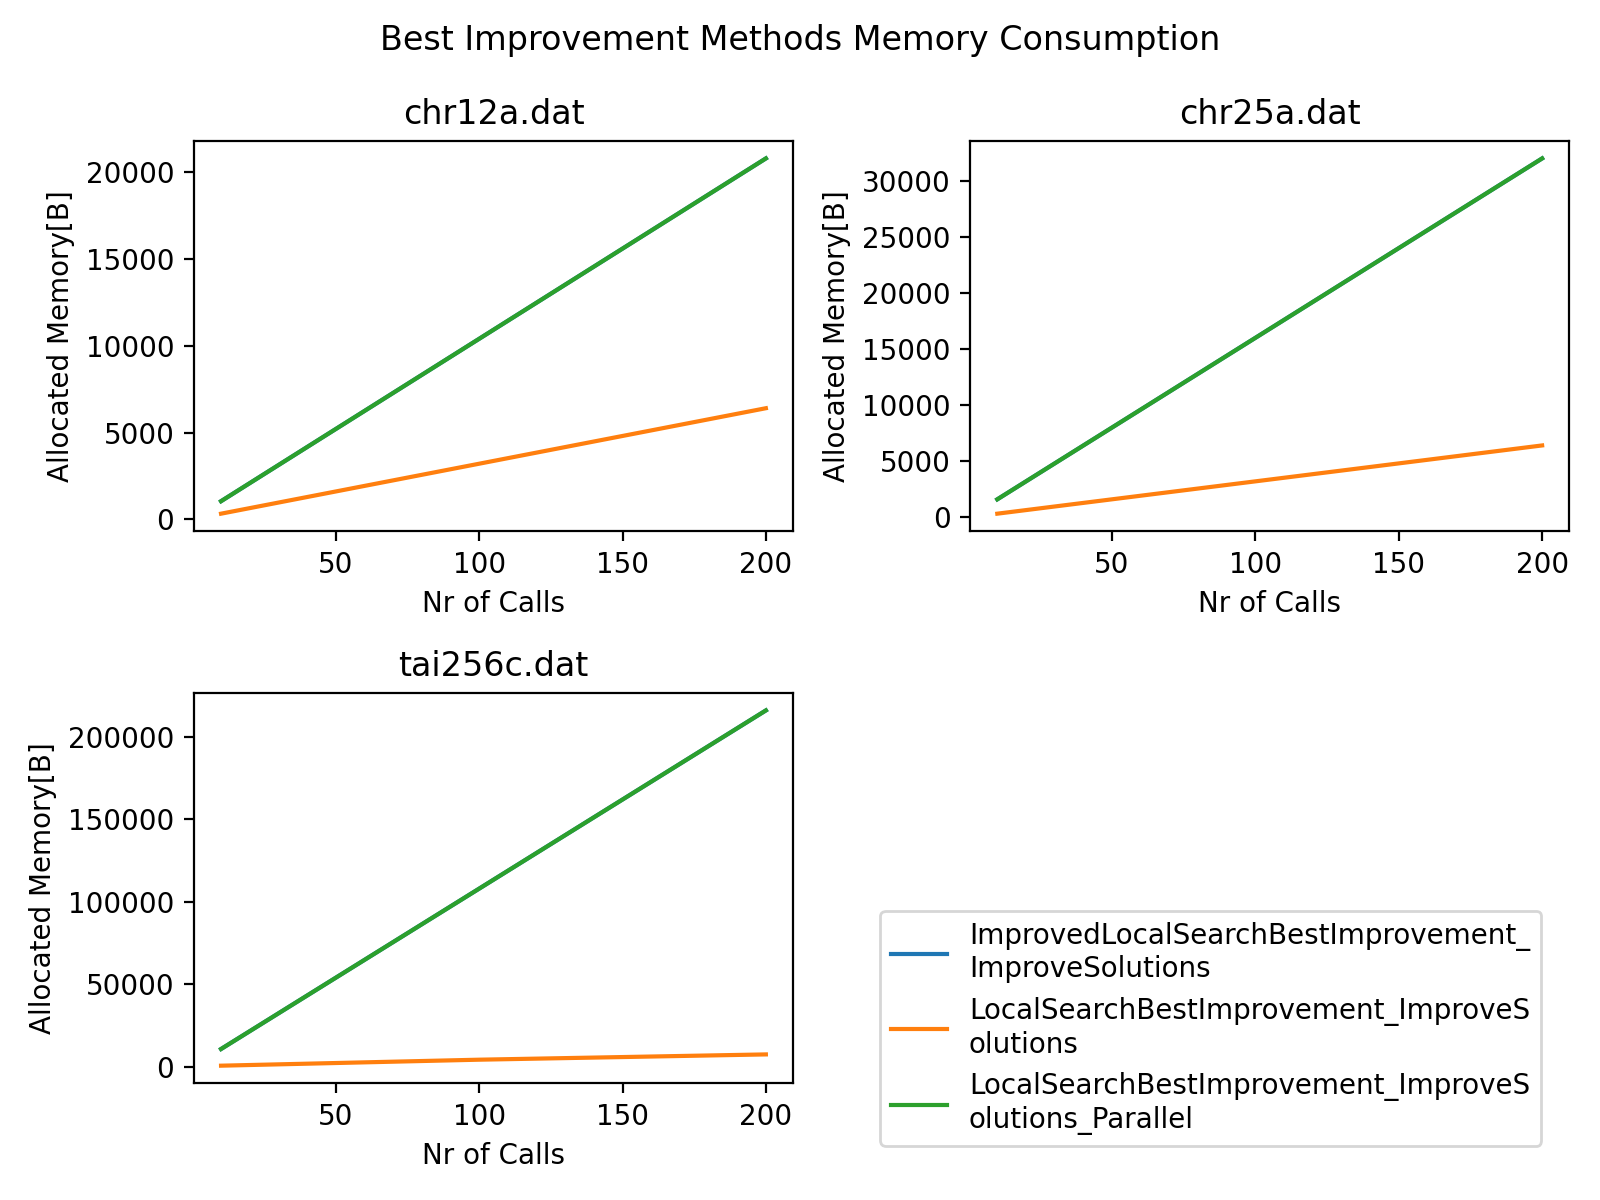
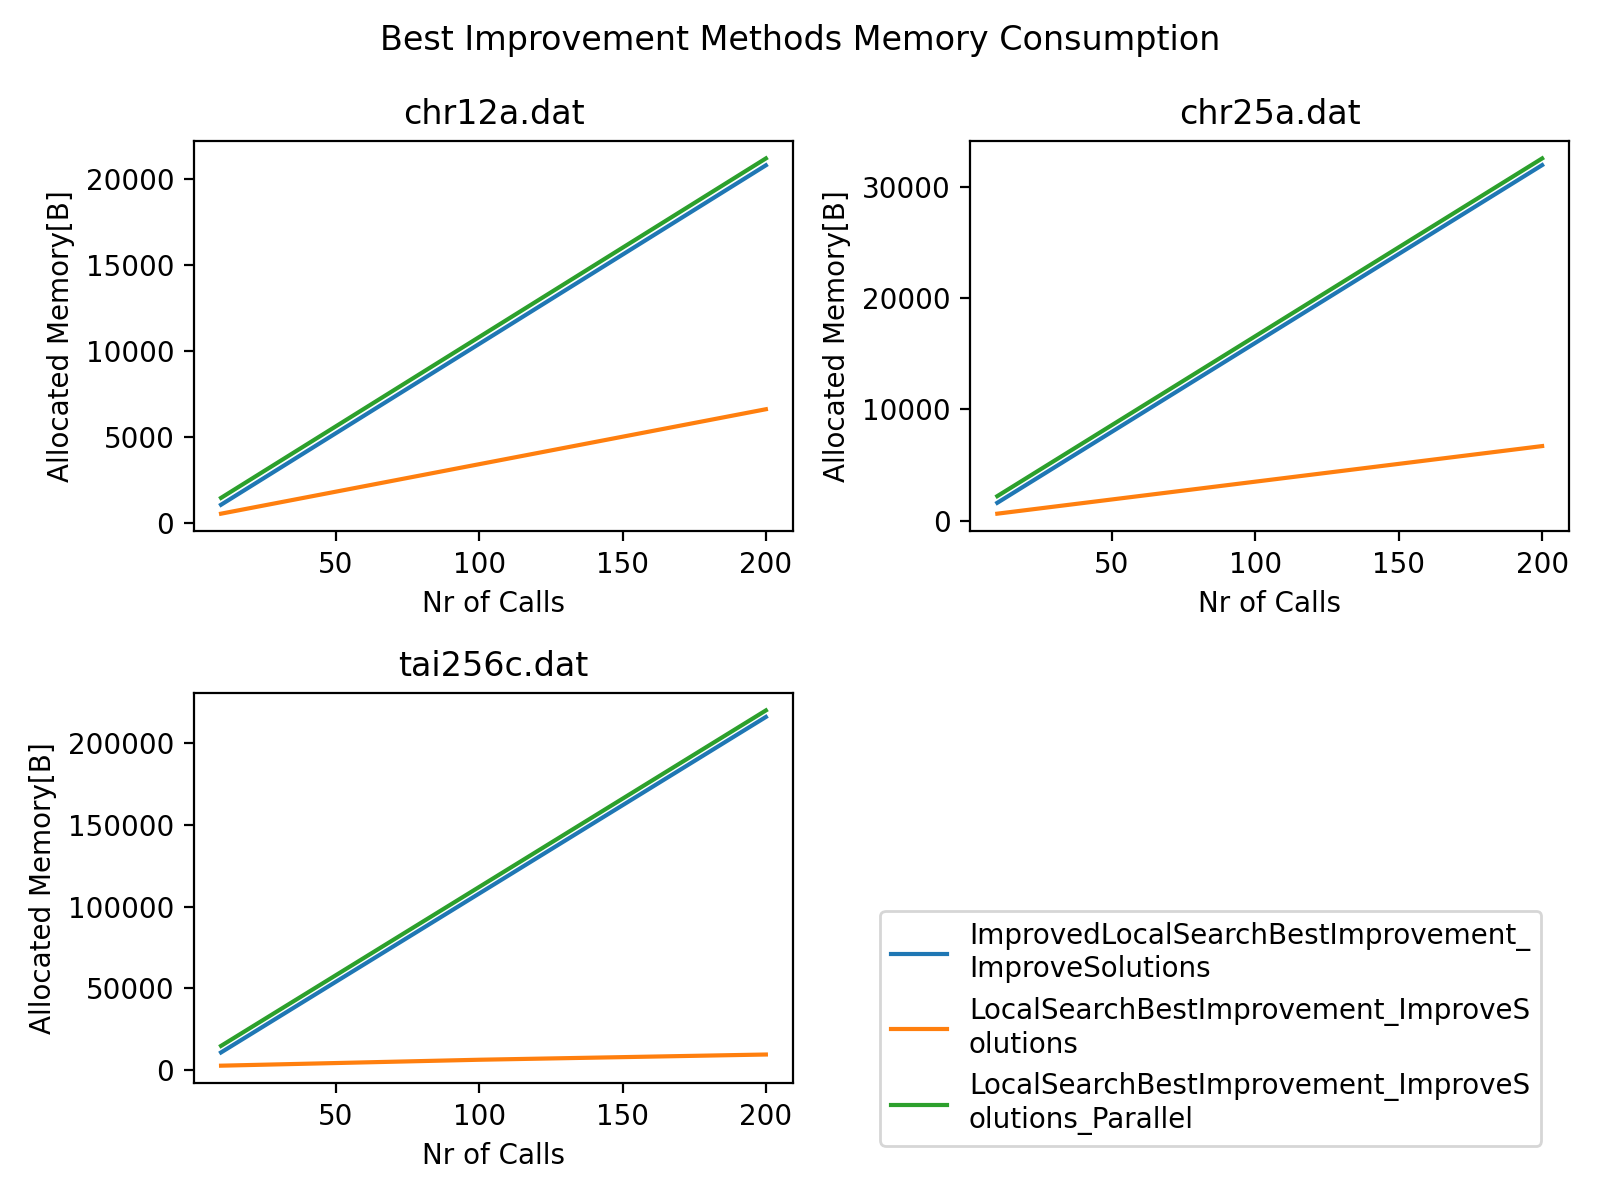
small transformation for overlapping lines

diff --git a/Domain/Results/Chart_tool/main.py b/Domain/Results/Chart_tool/main.py
@@ -3,130 +3,130 @@ from generate_optimization_result_plot import generate_plot
 from prepare_csv_file import prepare_csv, merge_csv_files_to_compare_diff, calculate_mean_and_median_for_csv, \
     reduce_csv_to_optimization_scenario_instances, merge_csv_files_for_different_tests
 
-# benchmark_plots.generate_plots()
+benchmark_plots.generate_plots()
 
-new_file_path = prepare_csv("C:/Users/stefa/OneDrive/Documents/_Private/MasterArbeit/Results/14-17-11_24-07-2023.csv")
-generate_plot(new_file_path,
-              x_axis_name="Reference Size",
-              x_axis_label="Reference Set Size",
-              y_axis_name="Difference",
-              y_axis_label="Difference[%]")
-
-new_file_path = prepare_csv("C:/Users/stefa/OneDrive/Documents/_Private/MasterArbeit/Results/10-15-57_24-07-2023.csv")
-generate_plot(new_file_path,
-              x_axis_name="Reference Size",
-              x_axis_label="Reference Set Size",
-              y_axis_name="Difference",
-              y_axis_label="Difference[%]")
-
-new_file_path = prepare_csv("C:/Users/stefa/OneDrive/Documents/_Private/MasterArbeit/Results/14-14-27_26-07-2023.csv")
-generate_plot(new_file_path,
-              x_axis_name="Population Size",
-              x_axis_label="Population Size",
-              y_axis_name="Difference",
-              y_axis_label="Difference[%]")
-
-new_file_path = prepare_csv("C:/Users/stefa/OneDrive/Documents/_Private/MasterArbeit/Results/23-30-16_26-07-2023.csv")
-generate_plot(new_file_path,
-              x_axis_name="Population Size",
-              x_axis_label="Population Size",
-              y_axis_name="Difference",
-              y_axis_label="Difference[%]")
-
-result_without_dynamic = \
-    prepare_csv("C:/Users/stefa/OneDrive/Documents/_Private/MasterArbeit/Results/06-47-52_30-07-2023.csv")
-result_with_dynamic = \
-    prepare_csv("C:/Users/stefa/OneDrive/Documents/_Private/MasterArbeit/Results/17-42-46_30-07-2023.csv")
-result_with_dynamic_limit = \
-    prepare_csv("C:/Users/stefa/OneDrive/Documents/_Private/MasterArbeit/Results/01-10-43_31-07-2023.csv")
-
-merge_csv_files_to_compare_diff(
-    [result_without_dynamic, result_with_dynamic, result_with_dynamic_limit]
-    )
-
-mean_final_results = calculate_mean_and_median_for_csv(result_with_dynamic_limit)
-generate_plot(mean_final_results,
-              x_axis_name="Instance Name",
-              x_axis_label="Instance Name",
-              y_axis_name="Mean",
-              y_axis_label="Geometric Mean[%]",
-              show_header=False,
-              sort_after_instance_size=True,
-              x_axis_rotation=45,
-              new_file_path=mean_final_results[:-4] + "_mean.png")
-
-final_results = \
-    prepare_csv("C:/Users/stefa/OneDrive/Documents/_Private/MasterArbeit/Results/final_result_without_optimization.csv")
-
-mean_final_results = calculate_mean_and_median_for_csv(final_results)
-generate_plot(mean_final_results,
-              x_axis_name="Instance Name",
-              x_axis_label="Instance Name",
-              y_axis_name="Mean",
-              y_axis_label="Geometric Mean[%]",
-              show_header=False,
-              sort_after_instance_size=True,
-              x_axis_rotation=45,
-              new_file_path=mean_final_results[:-4] + "_median.png")
-
-
-mean_final_results_without_optimization = reduce_csv_to_optimization_scenario_instances(mean_final_results)
-final_results_with_deduction = \
-    prepare_csv("C:/Users/stefa/OneDrive/Documents/_Private/MasterArbeit/Results"
-                "/final_result_decreased_values_for_parameter.csv")
-mean_final_results_with_deduction = calculate_mean_and_median_for_csv(final_results_with_deduction)
-
-final_results_with_increased = \
-    prepare_csv("C:/Users/stefa/OneDrive/Documents/_Private/MasterArbeit/Results"
-                "/final_result_increased_values_for_parameter.csv")
-mean_final_results_with_increased = calculate_mean_and_median_for_csv(final_results_with_increased)
-
-file_paths = \
-    {
-        mean_final_results_without_optimization: "Without Optimization",
-        mean_final_results_with_deduction: "With Decreased",
-        mean_final_results_with_increased: "With Increased",
-    }
-
-optimization_comparison = merge_csv_files_for_different_tests(file_paths)
-
-generate_plot(optimization_comparison,
-              x_axis_name="Instance Name",
-              x_axis_label="Instance Name",
-              y_axis_name="Mean",
-              y_axis_label="Geometric Mean[%]",
-              show_header=False,
-              sort_after_instance_size=True,
-              x_axis_rotation=45,
-              second_group_string="Test Name",
-              new_file_path=optimization_comparison[:-4] + "_mean.png")
-
-final_results_with_optimized_parameters = \
-    prepare_csv("C:/Users/stefa/OneDrive/Documents/_Private/MasterArbeit/Results"
-                "/final_results_with_optimization.csv")
-final_results_with_optimized_parameters = \
-    calculate_mean_and_median_for_csv(final_results_with_optimized_parameters)
-
-generate_plot(final_results_with_optimized_parameters,
-              x_axis_name="Instance Name",
-              x_axis_label="Instance Name",
-              y_axis_name="Mean",
-              y_axis_label="Geometric Mean[%]",
-              show_header=False,
-              sort_after_instance_size=True,
-              x_axis_rotation=45)
-
-final_results_with_optimized_parameters_unknown_solutions = \
-    prepare_csv("C:/Users/stefa/OneDrive/Documents/_Private/MasterArbeit/Results"
-                "/final_results_with_optimization_unkown_solutions.csv")
-final_results_with_optimized_parameters_unknown_solutions = \
-    calculate_mean_and_median_for_csv(final_results_with_optimized_parameters_unknown_solutions)
-
-generate_plot(final_results_with_optimized_parameters_unknown_solutions,
-              x_axis_name="Instance Name",
-              x_axis_label="Instance Name",
-              y_axis_name="Mean",
-              y_axis_label="Geometric Mean[%]",
-              show_header=False,
-              sort_after_instance_size=True,
-              x_axis_rotation=45)
+# new_file_path = prepare_csv("C:/Users/stefa/OneDrive/Documents/_Private/MasterArbeit/Results/14-17-11_24-07-2023.csv")
+# generate_plot(new_file_path,
+#               x_axis_name="Reference Size",
+#               x_axis_label="Reference Set Size",
+#               y_axis_name="Difference",
+#               y_axis_label="Difference[%]")
+#
+# new_file_path = prepare_csv("C:/Users/stefa/OneDrive/Documents/_Private/MasterArbeit/Results/10-15-57_24-07-2023.csv")
+# generate_plot(new_file_path,
+#               x_axis_name="Reference Size",
+#               x_axis_label="Reference Set Size",
+#               y_axis_name="Difference",
+#               y_axis_label="Difference[%]")
+#
+# new_file_path = prepare_csv("C:/Users/stefa/OneDrive/Documents/_Private/MasterArbeit/Results/14-14-27_26-07-2023.csv")
+# generate_plot(new_file_path,
+#               x_axis_name="Population Size",
+#               x_axis_label="Population Size",
+#               y_axis_name="Difference",
+#               y_axis_label="Difference[%]")
+#
+# new_file_path = prepare_csv("C:/Users/stefa/OneDrive/Documents/_Private/MasterArbeit/Results/23-30-16_26-07-2023.csv")
+# generate_plot(new_file_path,
+#               x_axis_name="Population Size",
+#               x_axis_label="Population Size",
+#               y_axis_name="Difference",
+#               y_axis_label="Difference[%]")
+#
+# result_without_dynamic = \
+#     prepare_csv("C:/Users/stefa/OneDrive/Documents/_Private/MasterArbeit/Results/06-47-52_30-07-2023.csv")
+# result_with_dynamic = \
+#     prepare_csv("C:/Users/stefa/OneDrive/Documents/_Private/MasterArbeit/Results/17-42-46_30-07-2023.csv")
+# result_with_dynamic_limit = \
+#     prepare_csv("C:/Users/stefa/OneDrive/Documents/_Private/MasterArbeit/Results/01-10-43_31-07-2023.csv")
+#
+# merge_csv_files_to_compare_diff(
+#     [result_without_dynamic, result_with_dynamic, result_with_dynamic_limit]
+#     )
+#
+# mean_final_results = calculate_mean_and_median_for_csv(result_with_dynamic_limit)
+# generate_plot(mean_final_results,
+#               x_axis_name="Instance Name",
+#               x_axis_label="Instance Name",
+#               y_axis_name="Mean",
+#               y_axis_label="Geometric Mean[%]",
+#               show_header=False,
+#               sort_after_instance_size=True,
+#               x_axis_rotation=45,
+#               new_file_path=mean_final_results[:-4] + "_mean.png")
+#
+# final_results = \
+#     prepare_csv("C:/Users/stefa/OneDrive/Documents/_Private/MasterArbeit/Results/final_result_without_optimization.csv")
+#
+# mean_final_results = calculate_mean_and_median_for_csv(final_results)
+# generate_plot(mean_final_results,
+#               x_axis_name="Instance Name",
+#               x_axis_label="Instance Name",
+#               y_axis_name="Mean",
+#               y_axis_label="Geometric Mean[%]",
+#               show_header=False,
+#               sort_after_instance_size=True,
+#               x_axis_rotation=45,
+#               new_file_path=mean_final_results[:-4] + "_median.png")
+#
+#
+# mean_final_results_without_optimization = reduce_csv_to_optimization_scenario_instances(mean_final_results)
+# final_results_with_deduction = \
+#     prepare_csv("C:/Users/stefa/OneDrive/Documents/_Private/MasterArbeit/Results"
+#                 "/final_result_decreased_values_for_parameter.csv")
+# mean_final_results_with_deduction = calculate_mean_and_median_for_csv(final_results_with_deduction)
+#
+# final_results_with_increased = \
+#     prepare_csv("C:/Users/stefa/OneDrive/Documents/_Private/MasterArbeit/Results"
+#                 "/final_result_increased_values_for_parameter.csv")
+# mean_final_results_with_increased = calculate_mean_and_median_for_csv(final_results_with_increased)
+#
+# file_paths = \
+#     {
+#         mean_final_results_without_optimization: "Without Optimization",
+#         mean_final_results_with_deduction: "With Decreased",
+#         mean_final_results_with_increased: "With Increased",
+#     }
+#
+# optimization_comparison = merge_csv_files_for_different_tests(file_paths)
+#
+# generate_plot(optimization_comparison,
+#               x_axis_name="Instance Name",
+#               x_axis_label="Instance Name",
+#               y_axis_name="Mean",
+#               y_axis_label="Geometric Mean[%]",
+#               show_header=False,
+#               sort_after_instance_size=True,
+#               x_axis_rotation=45,
+#               second_group_string="Test Name",
+#               new_file_path=optimization_comparison[:-4] + "_mean.png")
+#
+# final_results_with_optimized_parameters = \
+#     prepare_csv("C:/Users/stefa/OneDrive/Documents/_Private/MasterArbeit/Results"
+#                 "/final_results_with_optimization.csv")
+# final_results_with_optimized_parameters = \
+#     calculate_mean_and_median_for_csv(final_results_with_optimized_parameters)
+#
+# generate_plot(final_results_with_optimized_parameters,
+#               x_axis_name="Instance Name",
+#               x_axis_label="Instance Name",
+#               y_axis_name="Mean",
+#               y_axis_label="Geometric Mean[%]",
+#               show_header=False,
+#               sort_after_instance_size=True,
+#               x_axis_rotation=45)
+#
+# final_results_with_optimized_parameters_unknown_solutions = \
+#     prepare_csv("C:/Users/stefa/OneDrive/Documents/_Private/MasterArbeit/Results"
+#                 "/final_results_with_optimization_unkown_solutions.csv")
+# final_results_with_optimized_parameters_unknown_solutions = \
+#     calculate_mean_and_median_for_csv(final_results_with_optimized_parameters_unknown_solutions)
+#
+# generate_plot(final_results_with_optimized_parameters_unknown_solutions,
+#               x_axis_name="Instance Name",
+#               x_axis_label="Instance Name",
+#               y_axis_name="Mean",
+#               y_axis_label="Geometric Mean[%]",
+#               show_header=False,
+#               sort_after_instance_size=True,
+#               x_axis_rotation=45)

diff --git a/Domain/Results/Chart_tool/generate_time_plots_for_benchmark.py b/Domain/Results/Chart_tool/generate_time_plots_for_benchmark.py
@@ -2,6 +2,7 @@ from textwrap import wrap
 
 import pandas as pd
 import matplotlib.pyplot as plt
+from matplotlib.transforms import offset_copy
 from pandas.core.groupby import DataFrameGroupBy
 
 
@@ -11,8 +12,10 @@ def generate_plot(file_path: str,
                   y_axis_label: str,
                   x_axis_name: str,
                   x_axis_label: str,
-                  use_different_alpha=False,
+                  transform_values_against_overlapping=None,
                   bbox_to_anchor=(0.5, 0.5)):
+    if transform_values_against_overlapping is None:
+        transform_values_against_overlapping = []
     data = pd.read_csv(file_path)
     first_groups = data.groupby("SolutionName")
 
@@ -25,7 +28,7 @@ def generate_plot(file_path: str,
                               y_axis_label,
                               x_axis_name,
                               x_axis_label,
-                              use_different_alpha,
+                              transform_values_against_overlapping,
                               bbox_to_anchor)
 
     # for first_group in first_groups:
@@ -77,13 +80,16 @@ def create_sub_plot_for_group(first_groups: DataFrameGroupBy,
                               y_axis_label: str,
                               x_axis_name: str,
                               x_axis_label: str,
-                              use_different_alpha: bool,
+                              transform_values_against_overlapping,
                               bbox_to_anchor=(0.5, 0.5)):
 
     plt.figure(figsize=(8, 6))
     plt.suptitle(plot_name)
+    fig = plt.gcf()
 
     plot_count = 1
+    group_count = 0
+
     for first_group in first_groups:
         second_groups = first_group[1].groupby("Method")
 
@@ -93,20 +99,19 @@ def create_sub_plot_for_group(first_groups: DataFrameGroupBy,
         plt.ylabel(y_axis_label)
         plot_count += 1
 
-        alpha_count = 2
-        for second_group in second_groups:
+        transform_add_value = 0
 
+        for second_group in second_groups:
             y = second_group[1][y_axis_name]
             x = second_group[1][x_axis_name]
 
-            new_alpha = 1
-            if use_different_alpha:
-                new_alpha -= (alpha_count / 10)
+            plt.plot(x, y + transform_add_value, label=second_group[0])
 
-            plt.plot(x, y, label=second_group[0], alpha=new_alpha)
-            alpha_count += 2
+            if len(transform_values_against_overlapping) != 0:
+                transform_add_value += (
+                    transform_values_against_overlapping)[group_count]
 
-    fig = plt.gcf()
+        group_count += 1
 
     lines = []
     labels = []

diff --git a/Domain/Results/Chart_tool/benchmark_plots.py b/Domain/Results/Chart_tool/benchmark_plots.py
@@ -19,7 +19,7 @@ def generate_plots():
                   memory_label,
                   "NrOfSolutions",
                   "Nr of Solutions generated",
-                  use_different_alpha=True,
+                  transform_values_against_overlapping=[2000, 2000, 10000],
                   bbox_to_anchor=(0.55, 0.31))
 
     generate_plot("..\\Benchmarks\\ImprovementBenchmarks_First_Time_Results.csv",
@@ -28,6 +28,7 @@ def generate_plots():
                   "Time[ns]",
                   "NrOfSolutions",
                   "Nr of Calls",
+                  transform_values_against_overlapping=[0, 0, 40000000],
                   bbox_to_anchor=(0.55, 0.045))
 
     generate_plot("..\\Benchmarks\\ImprovementBenchmarks_First_Memory_Results.csv",
@@ -36,6 +37,7 @@ def generate_plots():
                   memory_label,
                   "NrOfSolutions",
                   "Nr of Calls",
+                  transform_values_against_overlapping=[500, 500, 0],
                   bbox_to_anchor=(0.55, 0.045))
 
     generate_plot("..\\Benchmarks\\ImprovementBenchmarks_Best_Time_Results.csv",
@@ -44,6 +46,7 @@ def generate_plots():
                   "Time[ns]",
                   "NrOfSolutions",
                   "Nr of Calls",
+                  transform_values_against_overlapping=[4000, 40000, 40000000],
                   bbox_to_anchor=(0.55, 0.045))
 
     generate_plot("..\\Benchmarks\\ImprovementBenchmarks_Best_Memory_Results.csv",
@@ -52,6 +55,7 @@ def generate_plots():
                   memory_label,
                   "NrOfSolutions",
                   "Nr of Calls",
+                  transform_values_against_overlapping=[200, 300, 2000],
                   bbox_to_anchor=(0.55, 0.045))
 
     generate_plot("..\\Benchmarks\\SolutionGeneration_Results_Time.csv",
@@ -60,6 +64,7 @@ def generate_plots():
                   "Time[us]",
                   "NrOfCalls",
                   "Nr of Calls",
+                  transform_values_against_overlapping=[200, 8000, 5000000],
                   bbox_to_anchor=(0.55, 0.045))
 
     generate_plot("..\\Benchmarks\\SolutionGeneration_Results_Memory.csv",
@@ -68,4 +73,5 @@ def generate_plots():
                   "Allocated Memory[KB]",
                   "NrOfCalls",
                   "Nr of Calls",
+                  transform_values_against_overlapping=[300, 3000, 200000],
                   bbox_to_anchor=(0.55, 0.045))
